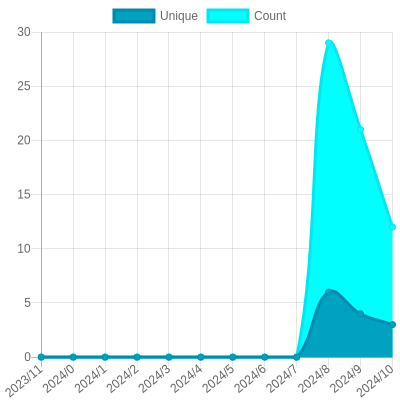
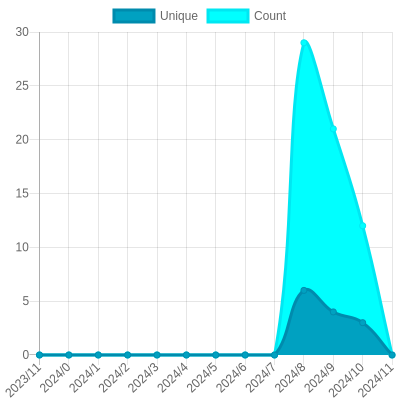
Update views

Changed region(s): [[0.0, 0.09, 0.99, 1.0], [0.03, 0.06, 0.09, 0.09]]

diff --git a/README.md b/README.md
@@ -26,7 +26,7 @@ The project created and maintained by [gayanvoice](https://github.com/gayanvoice
 			</a>
 		</td>
 		<td>
-			2023/11/29 12:43 AM UTC
+			2023/11/30 12:43 AM UTC
 		</td>
 		<td>
 			14
@@ -37,7 +37,7 @@ The project created and maintained by [gayanvoice](https://github.com/gayanvoice
 	</tr>
 </table>
 
-<small><i>Last updated on 2023/12/1 6:11 PM UTC</i></small>
+<small><i>Last updated on 2023/12/2 12:42 AM UTC</i></small>
 
 ## ✂Copy and 📋 Paste
 ### Total Views Badge

diff --git a/readme/254276202/year.md b/readme/254276202/year.md
@@ -20,6 +20,17 @@
 	</tr>
 	<tr>
 		<td>
+			<code>2023/12/1</code>
+		</td>
+		<td>
+			<code>0</code>
+		</td>
+		<td>
+			<code>0</code>
+		</td>
+	</tr>
+	<tr>
+		<td>
 			<code>2023/11/1</code>
 		</td>
 		<td>
@@ -153,7 +164,7 @@
 </table>
 
 </details>
-<small><i>Last updated on 2023/12/1 6:11 PM UTC</i></small>
+<small><i>Last updated on 2023/12/2 12:42 AM UTC</i></small>
 
 ## ✂Copy and 📋 Paste
 ### SVG Badge
